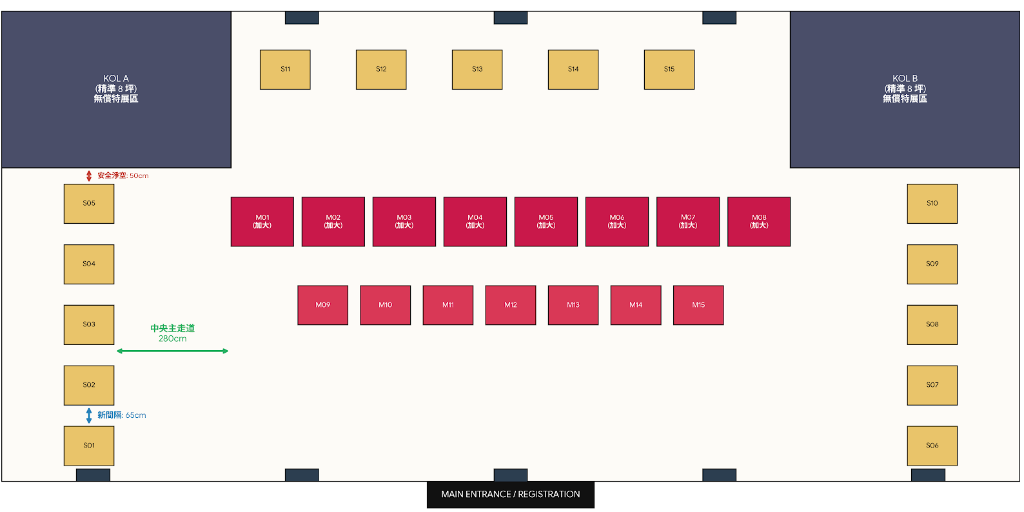
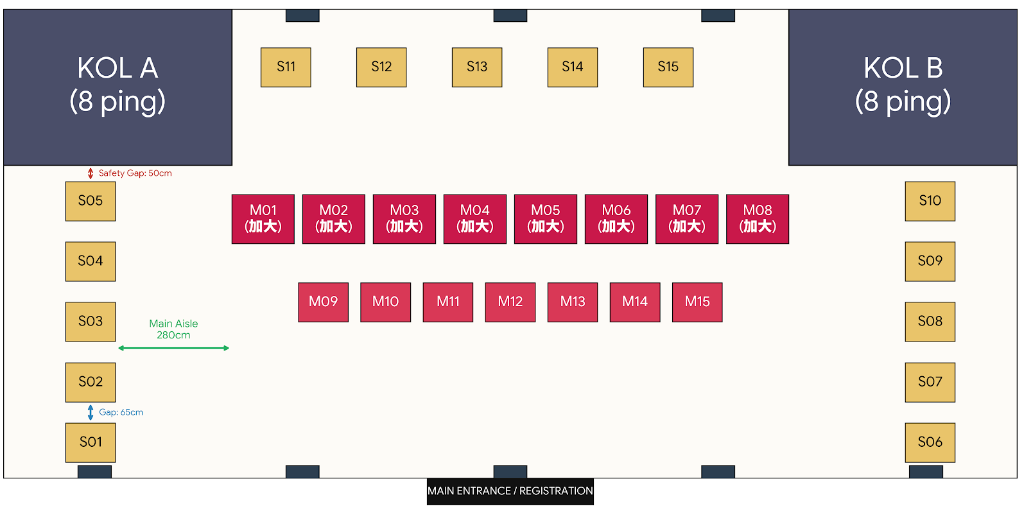
0626-8

diff --git a/src/app/exhibitor/portal/compliance/page.tsx b/src/app/exhibitor/portal/compliance/page.tsx
@@ -52,6 +52,7 @@ export default function ExhibitorCompliancePage({ brand: parentBrand }: { brand?
     rule_liability: false,
     rule_exit: false,
     rule_ip: false,
+    rule_return_inspection: false,
   });
 
   // Form states
@@ -63,6 +64,7 @@ export default function ExhibitorCompliancePage({ brand: parentBrand }: { brand?
         rule_liability: signedData.rule_liability,
         rule_exit: signedData.rule_exit,
         rule_ip: signedData.rule_ip,
+        rule_return_inspection: signedData.rule_return_inspection || false,
       };
     }
     return {
@@ -71,6 +73,7 @@ export default function ExhibitorCompliancePage({ brand: parentBrand }: { brand?
       rule_liability: false,
       rule_exit: false,
       rule_ip: false,
+      rule_return_inspection: false,
     };
   });
 
@@ -127,6 +130,7 @@ export default function ExhibitorCompliancePage({ brand: parentBrand }: { brand?
               rule_liability: compliance.rule_liability,
               rule_exit: compliance.rule_exit,
               rule_ip: compliance.rule_ip,
+              rule_return_inspection: compliance.rule_return_inspection || false,
             });
             setSpecialDeposit(compliance.rule_deposit_forfeiture || false);
             setSpecialDamage(compliance.rule_damage_compensation || false);
@@ -176,6 +180,7 @@ export default function ExhibitorCompliancePage({ brand: parentBrand }: { brand?
       rule_liability: true,
       rule_exit: true,
       rule_ip: true,
+      rule_return_inspection: true,
     };
     setRules(allTrue);
   };
@@ -307,6 +312,7 @@ export default function ExhibitorCompliancePage({ brand: parentBrand }: { brand?
         rule_liability: rules.rule_liability,
         rule_exit: rules.rule_exit,
         rule_ip: rules.rule_ip,
+        rule_return_inspection: rules.rule_return_inspection,
         rule_deposit_forfeiture: specialDeposit,
         rule_damage_compensation: specialDamage,
         rule_refund_policy: specialRefund,
@@ -531,6 +537,33 @@ export default function ExhibitorCompliancePage({ brand: parentBrand }: { brand?
           </div>
         </div>
       )
+    },
+    {
+      id: 'rule_return_inspection' as const,
+      title: '六、展位點交與損害賠償規範 Return & Damage Compensation Regulations',
+      summary: '規範展會結束後標準展台與硬體設備之點交、恢復原狀要求，以及受污損破壞時之損害賠償與保證金扣抵機制。',
+      content: (
+        <div className="space-y-4 text-neutral-300 text-xs font-light leading-relaxed">
+          <div>
+            <h4 className="font-semibold text-white mb-1.5 flex items-center gap-1">
+              <span className="w-1.5 h-3.5 bg-[#DFBA87] rounded-full inline-block"></span>
+              展位點交與無損歸還
+            </h4>
+            <p className="text-neutral-400">
+              大會所提供之標準展台、展架、照明設備及附屬硬體，均屬於完整場復之規範範圍。展會結束後，參展單位必須於大會明訂之撤場時限內，將展位及所有大會提供之硬體設施清潔、無損並「恢復原狀」，交由大會營運團隊進行現場點交。
+            </p>
+          </div>
+          <div>
+            <h4 className="font-semibold text-white mb-1.5 flex items-center gap-1">
+              <span className="w-1.5 h-3.5 bg-[#DFBA87] rounded-full inline-block"></span>
+              損害賠償與保證金扣抵
+            </h4>
+            <p className="text-neutral-400">
+              若經撤場點交確認，大會提供之展台或硬體設備有受污、破損、擅自變更結構、遺失，或因未妥善防護導致古蹟場域受損之情事，主辦單位有權要求參展單位「照價賠償」或全額支付修繕整新費用。該筆賠償款項將逕自參展保證金中扣抵；若保證金餘額不足以支付實際損害賠償總額，主辦單位將另行開立請款單據追償差額，參展單位絕無異議。
+            </p>
+          </div>
+        </div>
+      )
     }
   ];
 
@@ -646,7 +679,7 @@ export default function ExhibitorCompliancePage({ brand: parentBrand }: { brand?
           <div className="flex flex-col sm:flex-row items-start sm:items-center justify-between gap-4 p-4 rounded-xl bg-white/[0.02] border border-white/5">
             <div className="flex items-center gap-2">
               <CheckSquare className="w-4 h-4 text-[#DFBA87]" />
-              <span className="text-xs text-neutral-300 font-light">為了方便您快速閱讀與確認，您可以展開各段落查閱，或一鍵勾選五項基本規範。</span>
+              <span className="text-xs text-neutral-300 font-light">為了方便您快速閱讀與確認，您可以展開各段落查閱，或一鍵勾選六項基本規範。</span>
             </div>
             <button
               type="button"

diff --git a/src/app/exhibitor/portal/vip/page.tsx b/src/app/exhibitor/portal/vip/page.tsx
@@ -345,9 +345,14 @@ export default function ExhibitorVipPage({ brand: parentBrand }: { brand?: any }
           {/* Bottom privacy info */}
           <div className="border-t border-white/5 pt-4 mt-6 flex gap-2 text-[10px] text-neutral-500 font-light">
             <Lock className="w-3.5 h-3.5 flex-shrink-0 text-[#DFBA87]" />
-            <p>
-              大會承諾：您所提交的貴賓資訊將進行加密安全保護，僅供大會公關團隊用於本屆藝術節貴賓引導與後續客戶服務聯繫，絕不用於其他商業推廣。
-            </p>
+            <div className="space-y-1">
+              <p>
+                大會承諾：您所提交的貴賓資訊將進行加密安全保護，僅供大會公關團隊用於本屆藝術節貴賓引導與後續客戶服務聯繫，絕不用於其他商業推廣。
+              </p>
+              <p>
+                品牌需確認上傳之 VIP 聯絡資料，皆已取得當事人同意，授權提供予 VIS 大會作為本次展會票務與行銷聯繫使用。若因名單未經授權引發之法律糾紛，由品牌負擔全責。
+              </p>
+            </div>
           </div>
         </div>
 

diff --git a/src/lib/exhibitorConstants.ts b/src/lib/exhibitorConstants.ts
@@ -89,7 +89,7 @@ export const ZONE_I: Zone = {
     vipPasses: 30,
     exhibitorPasses: 4,
   },
-  note: '大會提供各展位 1展台，尺寸為 H90.5 * W60.5 * 60.5cm，下方可置物。\n參展品牌人員皆可於現場進行銷售，不抽成。\n非常態需求：倉儲區收費為每平方米 1000元/四日。',
+  note: '大會提供各展位 1展台，尺寸為 H90.5 * W60.5 * 60.5cm，下方可置物。\n參展品牌人員皆可於現場進行銷售，不抽成。\n額外需求：倉儲區收費為每平方米 1000元/四日。',
 };
 
 // ─── Zone II – 精鑑品牌展區 ───────────────────────────────
@@ -125,7 +125,7 @@ export const ZONE_II: Zone = {
     vipPasses: 30,
     exhibitorPasses: 4,
   },
-  note: '參展品牌人員皆可於現場進行銷售，不抽成。\n大會提供各展位 1展台，尺寸為 H90.5 * W60.5 * 60.5cm，下方可置物。\nM1-M8展台數2，分別為：H90.5 * W97.3 * 47.5與H90.5 * W60.5 * 60.5cm。\n非常態需求：倉儲區收費為每平方米 1000元/四日。',
+  note: '參展品牌人員皆可於現場進行銷售，不抽成。\n大會提供各展位 1展台，尺寸為 H90.5 * W60.5 * 60.5cm，下方可置物。\nM1-M8展台數2，分別為：H90.5 * W97.3 * 47.5與H90.5 * W60.5 * 60.5cm。\n額外需求：倉儲區收費為每平方米 1000元/四日。',
 };
 
 // ─── Zone III – 匠心藝藏品牌展區 ─────────────────────────

diff --git a/public/sw.js b/public/sw.js
@@ -1,1 +1,1 @@
-if(!self.define){let e,a={};const s=(s,i)=>(s=new URL(s+".js",i).href,a[s]||new Promise(a=>{if("document"in self){const e=document.createElement("script");e.src=s,e.onload=a,document.head.appendChild(e)}else e=s,importScripts(s),a()}).then(()=>{let e=a[s];if(!e)throw new Error(`Module ${s} didn’t register its module`);return e}));self.define=(i,c)=>{const n=e||("document"in self?document.currentScript.src:"")||location.href;if(a[n])return;let t={};const r=e=>s(e,n),d={module:{uri:n},exports:t,require:r};a[n]=Promise.all(i.map(e=>d[e]||r(e))).then(e=>(c(...e),t))}}define(["./workbox-4754cb34"],function(e){"use strict";importScripts(),self.skipWaiting(),e.clientsClaim(),e.precacheAndRoute([{url:"/_next/static/Vs5XyR11CpfcynLlecpKM/_buildManifest.js",revision:"d701bf013367719848bf63668a6ba553"},{url:"/_next/static/Vs5XyR11CpfcynLlecpKM/_ssgManifest.js",revision:"b6652df95db52feb4daf4eca35380933"},{url:"/_next/static/chunks/1935.12d67265dbe87d5c.js",revision:"12d67265dbe87d5c"},{url:"/_next/static/chunks/2442-48fc89cc48020f3b.js",revision:"48fc89cc48020f3b"},{url:"/_next/static/chunks/3794-9e54f1de291f2323.js",revision:"9e54f1de291f2323"},{url:"/_next/static/chunks/44530001-2ecdcc5f8e26ad69.js",revision:"2ecdcc5f8e26ad69"},{url:"/_next/static/chunks/4bd1b696-c2f6e0877b6c10aa.js",revision:"c2f6e0877b6c10aa"},{url:"/_next/static/chunks/5718-ecd16e04282deb11.js",revision:"ecd16e04282deb11"},{url:"/_next/static/chunks/7cb1fa1f.c2615f09a99b926c.js",revision:"c2615f09a99b926c"},{url:"/_next/static/chunks/8108-b9ba14a0c2935c80.js",revision:"b9ba14a0c2935c80"},{url:"/_next/static/chunks/8500-3953cc33eeceb44e.js",revision:"3953cc33eeceb44e"},{url:"/_next/static/chunks/8559-d74c447553934b01.js",revision:"d74c447553934b01"},{url:"/_next/static/chunks/9664-24ef6aaf386e093f.js",revision:"24ef6aaf386e093f"},{url:"/_next/static/chunks/9764-6b023ac3089365db.js",revision:"6b023ac3089365db"},{url:"/_next/static/chunks/9831-eadcb2320384112e.js",revision:"eadcb2320384112e"},{url:"/_next/static/chunks/ad2866b8.9e1c933b214cdd99.js",revision:"9e1c933b214cdd99"},{url:"/_next/static/chunks/app/_global-error/page-aa257dd19479bd43.js",revision:"aa257dd19479bd43"},{url:"/_next/static/chunks/app/_not-found/page-4fb20552999d0ddb.js",revision:"4fb20552999d0ddb"},{url:"/_next/static/chunks/app/api/campaigns/route-aa257dd19479bd43.js",revision:"aa257dd19479bd43"},{url:"/_next/static/chunks/app/api/exhibitor/apply/route-aa257dd19479bd43.js",revision:"aa257dd19479bd43"},{url:"/_next/static/chunks/app/api/tickets/broadcast/route-aa257dd19479bd43.js",revision:"aa257dd19479bd43"},{url:"/_next/static/chunks/app/api/tickets/register/route-aa257dd19479bd43.js",revision:"aa257dd19479bd43"},{url:"/_next/static/chunks/app/api/tickets/waitlist/route-aa257dd19479bd43.js",revision:"aa257dd19479bd43"},{url:"/_next/static/chunks/app/exhibitor/admin/page-944f0b9a977bb7a0.js",revision:"944f0b9a977bb7a0"},{url:"/_next/static/chunks/app/exhibitor/apply/page-b7612e5b5e4a4aab.js",revision:"b7612e5b5e4a4aab"},{url:"/_next/static/chunks/app/exhibitor/page-409a7b8b05c25edd.js",revision:"409a7b8b05c25edd"},{url:"/_next/static/chunks/app/exhibitor/portal/compliance/page-f7464bfb3233914b.js",revision:"f7464bfb3233914b"},{url:"/_next/static/chunks/app/exhibitor/portal/layout-f210cf0fa9de5b21.js",revision:"f210cf0fa9de5b21"},{url:"/_next/static/chunks/app/exhibitor/portal/media/page-090a0c3ca4f453f6.js",revision:"090a0c3ca4f453f6"},{url:"/_next/static/chunks/app/exhibitor/portal/page-aa69d2943380ba21.js",revision:"aa69d2943380ba21"},{url:"/_next/static/chunks/app/exhibitor/portal/vip/page-d24661c45805c265.js",revision:"d24661c45805c265"},{url:"/_next/static/chunks/app/layout-899b1b698a50d421.js",revision:"899b1b698a50d421"},{url:"/_next/static/chunks/app/page-2b8d102ed25d45b0.js",revision:"2b8d102ed25d45b0"},{url:"/_next/static/chunks/app/ticket/page-0d819c28b051c9ad.js",revision:"0d819c28b051c9ad"},{url:"/_next/static/chunks/app/v2/page-cb8290e770d23c99.js",revision:"cb8290e770d23c99"},{url:"/_next/static/chunks/app/vip/admin/page-1466becd9edb9e70.js",revision:"1466becd9edb9e70"},{url:"/_next/static/chunks/app/vip/blind-box/page-2b82f73f1bbc82a8.js",revision:"2b82f73f1bbc82a8"},{url:"/_next/static/chunks/app/vip/blind-box/redeem/page-2e19fa63aa1a11d2.js",revision:"2e19fa63aa1a11d2"},{url:"/_next/static/chunks/app/vip/dashboard/page-ca4a6b46acb1ac18.js",revision:"ca4a6b46acb1ac18"},{url:"/_next/static/chunks/app/vip/onboarding/page-3e748e4d14b0bdb0.js",revision:"3e748e4d14b0bdb0"},{url:"/_next/static/chunks/app/vip/page-15a71a447f2d43df.js",revision:"15a71a447f2d43df"},{url:"/_next/static/chunks/app/vip/scanner/page-5fb16a02d66ea6a8.js",revision:"5fb16a02d66ea6a8"},{url:"/_next/static/chunks/app/vip/story/page-52569030c075c7c9.js",revision:"52569030c075c7c9"},{url:"/_next/static/chunks/framework-d1de002210ddaaef.js",revision:"d1de002210ddaaef"},{url:"/_next/static/chunks/main-3acf8a3c0f422181.js",revision:"3acf8a3c0f422181"},{url:"/_next/static/chunks/main-app-895b698ab6d851d1.js",revision:"895b698ab6d851d1"},{url:"/_next/static/chunks/next/dist/client/components/builtin/app-error-aa257dd19479bd43.js",revision:"aa257dd19479bd43"},{url:"/_next/static/chunks/next/dist/client/components/builtin/forbidden-aa257dd19479bd43.js",revision:"aa257dd19479bd43"},{url:"/_next/static/chunks/next/dist/client/components/builtin/global-error-06ee0a672a74501d.js",revision:"06ee0a672a74501d"},{url:"/_next/static/chunks/next/dist/client/components/builtin/not-found-aa257dd19479bd43.js",revision:"aa257dd19479bd43"},{url:"/_next/static/chunks/next/dist/client/components/builtin/unauthorized-aa257dd19479bd43.js",revision:"aa257dd19479bd43"},{url:"/_next/static/chunks/polyfills-42372ed130431b0a.js",revision:"846118c33b2c0e922d7b3a7676f81f6f"},{url:"/_next/static/chunks/webpack-e0b90c65d878cbf2.js",revision:"e0b90c65d878cbf2"},{url:"/_next/static/css/b496025c9cd768cc.css",revision:"b496025c9cd768cc"},{url:"/_next/static/css/b6a4a90fc21bb508.css",revision:"b6a4a90fc21bb508"},{url:"/_next/static/media/013b72fa676f92e0-s.woff2",revision:"bc06a1ea50382b6956e53aeb91c889c1"},{url:"/_next/static/media/22a5144ee8d83bca-s.p.woff2",revision:"f4634c3bc1fa7cb53247e1f2872adb5a"},{url:"/_next/static/media/2b5b02fc7e511755-s.woff2",revision:"a27466d069120e75e25b4fd06edd5be2"},{url:"/_next/static/media/65f03d54ccadf4a8-s.woff2",revision:"58bcf4f276e0844890901b91c411447c"},{url:"/_next/static/media/7d4881bb7e1bf84d-s.p.woff2",revision:"cd5b25781181c5c03d99ac2cbf88016a"},{url:"/_next/static/media/9766a7e9e2e0ad5a-s.woff2",revision:"9a45f5a5937490fac6d4f5043a36c125"},{url:"/_next/static/media/aa016aab0e6d1295-s.woff2",revision:"49215a3bccaeb5d483f4cf8fceb24776"},{url:"/_next/static/media/b66cf8e69499582a-s.woff2",revision:"dea7cff2e11a000dc4e0e913992f9c21"},{url:"/_next/static/media/b9408752a0c24fb9-s.woff2",revision:"c10faa6c8fbd7a47d8f00e75e82935cb"},{url:"/_next/static/media/e038a29029a234f2-s.woff2",revision:"42a21c981b367f31bd04683072dae1c1"},{url:"/_next/static/media/f639721981034f88-s.woff2",revision:"f4a75186954722ca80df35984adf581d"},{url:"/blue_island.jpg",revision:"1432414db50782bea7f28e191856128e"},{url:"/blue_island.png",revision:"763f3c71785c1322cc0df65371c41ab4"},{url:"/exhibitor_banner.png",revision:"1a65b566b2f0edee7635b8a0a1b83ae4"},{url:"/exhibitor_banner_new.png",revision:"ca6ad490906e22a5d9bb98beca03a496"},{url:"/exhibitor_banner_new_v2.png",revision:"6a1e11918372a74a7a2681eed5be3fd2"},{url:"/exhibitor_banner_new_v3.jpg",revision:"606bfe90409a51af5249f27ae3b20fd9"},{url:"/file.svg",revision:"d09f95206c3fa0bb9bd9fefabfd0ea71"},{url:"/floor_plan_2027.png",revision:"9526b95194fda972d61ec67dfe34776b"},{url:"/footer_sponsor_logo.png",revision:"d1662c4841b421ef2a415c73cc04c4bf"},{url:"/fountain_logo.png",revision:"10d4086b00b874a7a73f3c30f504d830"},{url:"/globe.svg",revision:"2aaafa6a49b6563925fe440891e32717"},{url:"/hero_main.png",revision:"2e88135a03a26bf502eb9945374d94b1"},{url:"/hero_main_new.jpg",revision:"ef6c243b835ea6ad866e7fdc663bd097"},{url:"/manifest.json",revision:"21eb5ce0d75a16ae98ee85087ac89255"},{url:"/next.svg",revision:"8e061864f388b47f33a1c3780831193e"},{url:"/sector_artsy.png",revision:"04858c7cc66071c39df068b4aa9cd7ec"},{url:"/sector_atelier.png",revision:"b67658c5e9f09c7f022258f69c04e2a5"},{url:"/sector_premier.png",revision:"7914f3e1c7c42c1aa984cc2922f40219"},{url:"/traditional_formats.png",revision:"043aba76fc6fd4b50c2409319611a69e"},{url:"/user_image_1.png",revision:"9526b95194fda972d61ec67dfe34776b"},{url:"/user_image_2.png",revision:"04858c7cc66071c39df068b4aa9cd7ec"},{url:"/user_image_3.png",revision:"7914f3e1c7c42c1aa984cc2922f40219"},{url:"/user_image_4.png",revision:"b67658c5e9f09c7f022258f69c04e2a5"},{url:"/venue_bg.jpg",revision:"f3e32d87d4ba221fb53dcfdcc27c4c71"},{url:"/vercel.svg",revision:"c0af2f507b369b085b35ef4bbe3bcf1e"},{url:"/vip_lobby_bg.jpg",revision:"fcce81985deb8508040366279ae5090f"},{url:"/vip_lobby_bg.png",revision:"fcce81985deb8508040366279ae5090f"},{url:"/vis_logo.png",revision:"6a1e11918372a74a7a2681eed5be3fd2"},{url:"/window.svg",revision:"a2760511c65806022ad20adf74370ff3"}],{ignoreURLParametersMatching:[]}),e.cleanupOutdatedCaches(),e.registerRoute("/",new e.NetworkFirst({cacheName:"start-url",plugins:[{cacheWillUpdate:async({request:e,response:a,event:s,state:i})=>a&&"opaqueredirect"===a.type?new Response(a.body,{status:200,statusText:"OK",headers:a.headers}):a}]}),"GET"),e.registerRoute(/^https:\/\/fonts\.(?:gstatic)\.com\/.*/i,new e.CacheFirst({cacheName:"google-fonts-webfonts",plugins:[new e.ExpirationPlugin({maxEntries:4,maxAgeSeconds:31536e3})]}),"GET"),e.registerRoute(/^https:\/\/fonts\.(?:googleapis)\.com\/.*/i,new e.StaleWhileRevalidate({cacheName:"google-fonts-stylesheets",plugins:[new e.ExpirationPlugin({maxEntries:4,maxAgeSeconds:604800})]}),"GET"),e.registerRoute(/\.(?:eot|otf|ttc|ttf|woff|woff2|font.css)$/i,new e.StaleWhileRevalidate({cacheName:"static-font-assets",plugins:[new e.ExpirationPlugin({maxEntries:4,maxAgeSeconds:604800})]}),"GET"),e.registerRoute(/\.(?:jpg|jpeg|gif|png|svg|ico|webp)$/i,new e.StaleWhileRevalidate({cacheName:"static-image-assets",plugins:[new e.ExpirationPlugin({maxEntries:64,maxAgeSeconds:86400})]}),"GET"),e.registerRoute(/\/_next\/image\?url=.+$/i,new e.StaleWhileRevalidate({cacheName:"next-image",plugins:[new e.ExpirationPlugin({maxEntries:64,maxAgeSeconds:86400})]}),"GET"),e.registerRoute(/\.(?:mp3|wav|ogg)$/i,new e.CacheFirst({cacheName:"static-audio-assets",plugins:[new e.RangeRequestsPlugin,new e.ExpirationPlugin({maxEntries:32,maxAgeSeconds:86400})]}),"GET"),e.registerRoute(/\.(?:mp4)$/i,new e.CacheFirst({cacheName:"static-video-assets",plugins:[new e.RangeRequestsPlugin,new e.ExpirationPlugin({maxEntries:32,maxAgeSeconds:86400})]}),"GET"),e.registerRoute(/\.(?:js)$/i,new e.StaleWhileRevalidate({cacheName:"static-js-assets",plugins:[new e.ExpirationPlugin({maxEntries:32,maxAgeSeconds:86400})]}),"GET"),e.registerRoute(/\.(?:css|less)$/i,new e.StaleWhileRevalidate({cacheName:"static-style-assets",plugins:[new e.ExpirationPlugin({maxEntries:32,maxAgeSeconds:86400})]}),"GET"),e.registerRoute(/\/_next\/data\/.+\/.+\.json$/i,new e.StaleWhileRevalidate({cacheName:"next-data",plugins:[new e.ExpirationPlugin({maxEntries:32,maxAgeSeconds:86400})]}),"GET"),e.registerRoute(/\.(?:json|xml|csv)$/i,new e.NetworkFirst({cacheName:"static-data-assets",plugins:[new e.ExpirationPlugin({maxEntries:32,maxAgeSeconds:86400})]}),"GET"),e.registerRoute(({url:e})=>{if(!(self.origin===e.origin))return!1;const a=e.pathname;return!a.startsWith("/api/auth/")&&!!a.startsWith("/api/")},new e.NetworkFirst({cacheName:"apis",networkTimeoutSeconds:10,plugins:[new e.ExpirationPlugin({maxEntries:16,maxAgeSeconds:86400})]}),"GET"),e.registerRoute(({url:e})=>{if(!(self.origin===e.origin))return!1;return!e.pathname.startsWith("/api/")},new e.NetworkFirst({cacheName:"others",networkTimeoutSeconds:10,plugins:[new e.ExpirationPlugin({maxEntries:32,maxAgeSeconds:86400})]}),"GET"),e.registerRoute(({url:e})=>!(self.origin===e.origin),new e.NetworkFirst({cacheName:"cross-origin",networkTimeoutSeconds:10,plugins:[new e.ExpirationPlugin({maxEntries:32,maxAgeSeconds:3600})]}),"GET")});
+if(!self.define){let e,a={};const s=(s,i)=>(s=new URL(s+".js",i).href,a[s]||new Promise(a=>{if("document"in self){const e=document.createElement("script");e.src=s,e.onload=a,document.head.appendChild(e)}else e=s,importScripts(s),a()}).then(()=>{let e=a[s];if(!e)throw new Error(`Module ${s} didn’t register its module`);return e}));self.define=(i,c)=>{const n=e||("document"in self?document.currentScript.src:"")||location.href;if(a[n])return;let t={};const r=e=>s(e,n),d={module:{uri:n},exports:t,require:r};a[n]=Promise.all(i.map(e=>d[e]||r(e))).then(e=>(c(...e),t))}}define(["./workbox-4754cb34"],function(e){"use strict";importScripts(),self.skipWaiting(),e.clientsClaim(),e.precacheAndRoute([{url:"/_next/static/chunks/1935.12d67265dbe87d5c.js",revision:"12d67265dbe87d5c"},{url:"/_next/static/chunks/2442-48fc89cc48020f3b.js",revision:"48fc89cc48020f3b"},{url:"/_next/static/chunks/3794-9e54f1de291f2323.js",revision:"9e54f1de291f2323"},{url:"/_next/static/chunks/44530001-2ecdcc5f8e26ad69.js",revision:"2ecdcc5f8e26ad69"},{url:"/_next/static/chunks/4bd1b696-c2f6e0877b6c10aa.js",revision:"c2f6e0877b6c10aa"},{url:"/_next/static/chunks/5718-ecd16e04282deb11.js",revision:"ecd16e04282deb11"},{url:"/_next/static/chunks/7cb1fa1f.c2615f09a99b926c.js",revision:"c2615f09a99b926c"},{url:"/_next/static/chunks/8108-b9ba14a0c2935c80.js",revision:"b9ba14a0c2935c80"},{url:"/_next/static/chunks/8500-3953cc33eeceb44e.js",revision:"3953cc33eeceb44e"},{url:"/_next/static/chunks/8559-d74c447553934b01.js",revision:"d74c447553934b01"},{url:"/_next/static/chunks/9664-24ef6aaf386e093f.js",revision:"24ef6aaf386e093f"},{url:"/_next/static/chunks/9764-6b023ac3089365db.js",revision:"6b023ac3089365db"},{url:"/_next/static/chunks/9831-eadcb2320384112e.js",revision:"eadcb2320384112e"},{url:"/_next/static/chunks/ad2866b8.9e1c933b214cdd99.js",revision:"9e1c933b214cdd99"},{url:"/_next/static/chunks/app/_global-error/page-aa257dd19479bd43.js",revision:"aa257dd19479bd43"},{url:"/_next/static/chunks/app/_not-found/page-4fb20552999d0ddb.js",revision:"4fb20552999d0ddb"},{url:"/_next/static/chunks/app/api/campaigns/route-aa257dd19479bd43.js",revision:"aa257dd19479bd43"},{url:"/_next/static/chunks/app/api/exhibitor/apply/route-aa257dd19479bd43.js",revision:"aa257dd19479bd43"},{url:"/_next/static/chunks/app/api/tickets/broadcast/route-aa257dd19479bd43.js",revision:"aa257dd19479bd43"},{url:"/_next/static/chunks/app/api/tickets/register/route-aa257dd19479bd43.js",revision:"aa257dd19479bd43"},{url:"/_next/static/chunks/app/api/tickets/waitlist/route-aa257dd19479bd43.js",revision:"aa257dd19479bd43"},{url:"/_next/static/chunks/app/exhibitor/admin/page-bbb5b516e20dc5ed.js",revision:"bbb5b516e20dc5ed"},{url:"/_next/static/chunks/app/exhibitor/apply/page-622b419f09c363b8.js",revision:"622b419f09c363b8"},{url:"/_next/static/chunks/app/exhibitor/page-fe7e126ecb776363.js",revision:"fe7e126ecb776363"},{url:"/_next/static/chunks/app/exhibitor/portal/compliance/page-c57f35815ae6ec84.js",revision:"c57f35815ae6ec84"},{url:"/_next/static/chunks/app/exhibitor/portal/layout-f210cf0fa9de5b21.js",revision:"f210cf0fa9de5b21"},{url:"/_next/static/chunks/app/exhibitor/portal/media/page-090a0c3ca4f453f6.js",revision:"090a0c3ca4f453f6"},{url:"/_next/static/chunks/app/exhibitor/portal/page-33f24c9adfe4d43d.js",revision:"33f24c9adfe4d43d"},{url:"/_next/static/chunks/app/exhibitor/portal/vip/page-3046254781a74e08.js",revision:"3046254781a74e08"},{url:"/_next/static/chunks/app/layout-899b1b698a50d421.js",revision:"899b1b698a50d421"},{url:"/_next/static/chunks/app/page-2b8d102ed25d45b0.js",revision:"2b8d102ed25d45b0"},{url:"/_next/static/chunks/app/ticket/page-0d819c28b051c9ad.js",revision:"0d819c28b051c9ad"},{url:"/_next/static/chunks/app/v2/page-cb8290e770d23c99.js",revision:"cb8290e770d23c99"},{url:"/_next/static/chunks/app/vip/admin/page-1466becd9edb9e70.js",revision:"1466becd9edb9e70"},{url:"/_next/static/chunks/app/vip/blind-box/page-2b82f73f1bbc82a8.js",revision:"2b82f73f1bbc82a8"},{url:"/_next/static/chunks/app/vip/blind-box/redeem/page-2e19fa63aa1a11d2.js",revision:"2e19fa63aa1a11d2"},{url:"/_next/static/chunks/app/vip/dashboard/page-ca4a6b46acb1ac18.js",revision:"ca4a6b46acb1ac18"},{url:"/_next/static/chunks/app/vip/onboarding/page-3e748e4d14b0bdb0.js",revision:"3e748e4d14b0bdb0"},{url:"/_next/static/chunks/app/vip/page-15a71a447f2d43df.js",revision:"15a71a447f2d43df"},{url:"/_next/static/chunks/app/vip/scanner/page-5fb16a02d66ea6a8.js",revision:"5fb16a02d66ea6a8"},{url:"/_next/static/chunks/app/vip/story/page-52569030c075c7c9.js",revision:"52569030c075c7c9"},{url:"/_next/static/chunks/framework-d1de002210ddaaef.js",revision:"d1de002210ddaaef"},{url:"/_next/static/chunks/main-3acf8a3c0f422181.js",revision:"3acf8a3c0f422181"},{url:"/_next/static/chunks/main-app-895b698ab6d851d1.js",revision:"895b698ab6d851d1"},{url:"/_next/static/chunks/next/dist/client/components/builtin/app-error-aa257dd19479bd43.js",revision:"aa257dd19479bd43"},{url:"/_next/static/chunks/next/dist/client/components/builtin/forbidden-aa257dd19479bd43.js",revision:"aa257dd19479bd43"},{url:"/_next/static/chunks/next/dist/client/components/builtin/global-error-06ee0a672a74501d.js",revision:"06ee0a672a74501d"},{url:"/_next/static/chunks/next/dist/client/components/builtin/not-found-aa257dd19479bd43.js",revision:"aa257dd19479bd43"},{url:"/_next/static/chunks/next/dist/client/components/builtin/unauthorized-aa257dd19479bd43.js",revision:"aa257dd19479bd43"},{url:"/_next/static/chunks/polyfills-42372ed130431b0a.js",revision:"846118c33b2c0e922d7b3a7676f81f6f"},{url:"/_next/static/chunks/webpack-e0b90c65d878cbf2.js",revision:"e0b90c65d878cbf2"},{url:"/_next/static/css/b496025c9cd768cc.css",revision:"b496025c9cd768cc"},{url:"/_next/static/css/b6a4a90fc21bb508.css",revision:"b6a4a90fc21bb508"},{url:"/_next/static/gE06ASXXdUHdiPzrI7C-z/_buildManifest.js",revision:"d701bf013367719848bf63668a6ba553"},{url:"/_next/static/gE06ASXXdUHdiPzrI7C-z/_ssgManifest.js",revision:"b6652df95db52feb4daf4eca35380933"},{url:"/_next/static/media/013b72fa676f92e0-s.woff2",revision:"bc06a1ea50382b6956e53aeb91c889c1"},{url:"/_next/static/media/22a5144ee8d83bca-s.p.woff2",revision:"f4634c3bc1fa7cb53247e1f2872adb5a"},{url:"/_next/static/media/2b5b02fc7e511755-s.woff2",revision:"a27466d069120e75e25b4fd06edd5be2"},{url:"/_next/static/media/65f03d54ccadf4a8-s.woff2",revision:"58bcf4f276e0844890901b91c411447c"},{url:"/_next/static/media/7d4881bb7e1bf84d-s.p.woff2",revision:"cd5b25781181c5c03d99ac2cbf88016a"},{url:"/_next/static/media/9766a7e9e2e0ad5a-s.woff2",revision:"9a45f5a5937490fac6d4f5043a36c125"},{url:"/_next/static/media/aa016aab0e6d1295-s.woff2",revision:"49215a3bccaeb5d483f4cf8fceb24776"},{url:"/_next/static/media/b66cf8e69499582a-s.woff2",revision:"dea7cff2e11a000dc4e0e913992f9c21"},{url:"/_next/static/media/b9408752a0c24fb9-s.woff2",revision:"c10faa6c8fbd7a47d8f00e75e82935cb"},{url:"/_next/static/media/e038a29029a234f2-s.woff2",revision:"42a21c981b367f31bd04683072dae1c1"},{url:"/_next/static/media/f639721981034f88-s.woff2",revision:"f4a75186954722ca80df35984adf581d"},{url:"/blue_island.jpg",revision:"1432414db50782bea7f28e191856128e"},{url:"/blue_island.png",revision:"763f3c71785c1322cc0df65371c41ab4"},{url:"/exhibitor_banner.png",revision:"1a65b566b2f0edee7635b8a0a1b83ae4"},{url:"/exhibitor_banner_new.png",revision:"ca6ad490906e22a5d9bb98beca03a496"},{url:"/exhibitor_banner_new_v2.png",revision:"6a1e11918372a74a7a2681eed5be3fd2"},{url:"/exhibitor_banner_new_v3.jpg",revision:"606bfe90409a51af5249f27ae3b20fd9"},{url:"/file.svg",revision:"d09f95206c3fa0bb9bd9fefabfd0ea71"},{url:"/floor_plan_2027.png",revision:"3e855e93a9b113c8342eefb402b7bf7e"},{url:"/footer_sponsor_logo.png",revision:"d1662c4841b421ef2a415c73cc04c4bf"},{url:"/fountain_logo.png",revision:"10d4086b00b874a7a73f3c30f504d830"},{url:"/globe.svg",revision:"2aaafa6a49b6563925fe440891e32717"},{url:"/hero_main.png",revision:"2e88135a03a26bf502eb9945374d94b1"},{url:"/hero_main_new.jpg",revision:"ef6c243b835ea6ad866e7fdc663bd097"},{url:"/manifest.json",revision:"21eb5ce0d75a16ae98ee85087ac89255"},{url:"/next.svg",revision:"8e061864f388b47f33a1c3780831193e"},{url:"/sector_artsy.png",revision:"04858c7cc66071c39df068b4aa9cd7ec"},{url:"/sector_atelier.png",revision:"b67658c5e9f09c7f022258f69c04e2a5"},{url:"/sector_premier.png",revision:"7914f3e1c7c42c1aa984cc2922f40219"},{url:"/traditional_formats.png",revision:"043aba76fc6fd4b50c2409319611a69e"},{url:"/user_image_1.png",revision:"9526b95194fda972d61ec67dfe34776b"},{url:"/user_image_2.png",revision:"04858c7cc66071c39df068b4aa9cd7ec"},{url:"/user_image_3.png",revision:"7914f3e1c7c42c1aa984cc2922f40219"},{url:"/user_image_4.png",revision:"b67658c5e9f09c7f022258f69c04e2a5"},{url:"/venue_bg.jpg",revision:"f3e32d87d4ba221fb53dcfdcc27c4c71"},{url:"/vercel.svg",revision:"c0af2f507b369b085b35ef4bbe3bcf1e"},{url:"/vip_lobby_bg.jpg",revision:"fcce81985deb8508040366279ae5090f"},{url:"/vip_lobby_bg.png",revision:"fcce81985deb8508040366279ae5090f"},{url:"/vis_logo.png",revision:"6a1e11918372a74a7a2681eed5be3fd2"},{url:"/window.svg",revision:"a2760511c65806022ad20adf74370ff3"}],{ignoreURLParametersMatching:[]}),e.cleanupOutdatedCaches(),e.registerRoute("/",new e.NetworkFirst({cacheName:"start-url",plugins:[{cacheWillUpdate:async({request:e,response:a,event:s,state:i})=>a&&"opaqueredirect"===a.type?new Response(a.body,{status:200,statusText:"OK",headers:a.headers}):a}]}),"GET"),e.registerRoute(/^https:\/\/fonts\.(?:gstatic)\.com\/.*/i,new e.CacheFirst({cacheName:"google-fonts-webfonts",plugins:[new e.ExpirationPlugin({maxEntries:4,maxAgeSeconds:31536e3})]}),"GET"),e.registerRoute(/^https:\/\/fonts\.(?:googleapis)\.com\/.*/i,new e.StaleWhileRevalidate({cacheName:"google-fonts-stylesheets",plugins:[new e.ExpirationPlugin({maxEntries:4,maxAgeSeconds:604800})]}),"GET"),e.registerRoute(/\.(?:eot|otf|ttc|ttf|woff|woff2|font.css)$/i,new e.StaleWhileRevalidate({cacheName:"static-font-assets",plugins:[new e.ExpirationPlugin({maxEntries:4,maxAgeSeconds:604800})]}),"GET"),e.registerRoute(/\.(?:jpg|jpeg|gif|png|svg|ico|webp)$/i,new e.StaleWhileRevalidate({cacheName:"static-image-assets",plugins:[new e.ExpirationPlugin({maxEntries:64,maxAgeSeconds:86400})]}),"GET"),e.registerRoute(/\/_next\/image\?url=.+$/i,new e.StaleWhileRevalidate({cacheName:"next-image",plugins:[new e.ExpirationPlugin({maxEntries:64,maxAgeSeconds:86400})]}),"GET"),e.registerRoute(/\.(?:mp3|wav|ogg)$/i,new e.CacheFirst({cacheName:"static-audio-assets",plugins:[new e.RangeRequestsPlugin,new e.ExpirationPlugin({maxEntries:32,maxAgeSeconds:86400})]}),"GET"),e.registerRoute(/\.(?:mp4)$/i,new e.CacheFirst({cacheName:"static-video-assets",plugins:[new e.RangeRequestsPlugin,new e.ExpirationPlugin({maxEntries:32,maxAgeSeconds:86400})]}),"GET"),e.registerRoute(/\.(?:js)$/i,new e.StaleWhileRevalidate({cacheName:"static-js-assets",plugins:[new e.ExpirationPlugin({maxEntries:32,maxAgeSeconds:86400})]}),"GET"),e.registerRoute(/\.(?:css|less)$/i,new e.StaleWhileRevalidate({cacheName:"static-style-assets",plugins:[new e.ExpirationPlugin({maxEntries:32,maxAgeSeconds:86400})]}),"GET"),e.registerRoute(/\/_next\/data\/.+\/.+\.json$/i,new e.StaleWhileRevalidate({cacheName:"next-data",plugins:[new e.ExpirationPlugin({maxEntries:32,maxAgeSeconds:86400})]}),"GET"),e.registerRoute(/\.(?:json|xml|csv)$/i,new e.NetworkFirst({cacheName:"static-data-assets",plugins:[new e.ExpirationPlugin({maxEntries:32,maxAgeSeconds:86400})]}),"GET"),e.registerRoute(({url:e})=>{if(!(self.origin===e.origin))return!1;const a=e.pathname;return!a.startsWith("/api/auth/")&&!!a.startsWith("/api/")},new e.NetworkFirst({cacheName:"apis",networkTimeoutSeconds:10,plugins:[new e.ExpirationPlugin({maxEntries:16,maxAgeSeconds:86400})]}),"GET"),e.registerRoute(({url:e})=>{if(!(self.origin===e.origin))return!1;return!e.pathname.startsWith("/api/")},new e.NetworkFirst({cacheName:"others",networkTimeoutSeconds:10,plugins:[new e.ExpirationPlugin({maxEntries:32,maxAgeSeconds:86400})]}),"GET"),e.registerRoute(({url:e})=>!(self.origin===e.origin),new e.NetworkFirst({cacheName:"cross-origin",networkTimeoutSeconds:10,plugins:[new e.ExpirationPlugin({maxEntries:32,maxAgeSeconds:3600})]}),"GET")});

diff --git a/src/app/exhibitor/admin/page.tsx b/src/app/exhibitor/admin/page.tsx
@@ -594,7 +594,7 @@ export default function ExhibitorAdminPage() {
                               <div className="flex flex-wrap gap-1.5 max-w-xs">
                                 {['基本守則', '保證金沒收', '古蹟賠償', '退費取消'].map((k, i) => {
                                   let checked = false;
-                                  if (i === 0) checked = comp.rule_booth && comp.rule_conduct && comp.rule_liability && comp.rule_exit && comp.rule_ip;
+                                  if (i === 0) checked = comp.rule_booth && comp.rule_conduct && comp.rule_liability && comp.rule_exit && comp.rule_ip && comp.rule_return_inspection;
                                   if (i === 1) checked = comp.rule_deposit_forfeiture;
                                   if (i === 2) checked = comp.rule_damage_compensation;
                                   if (i === 3) checked = comp.rule_refund_policy;